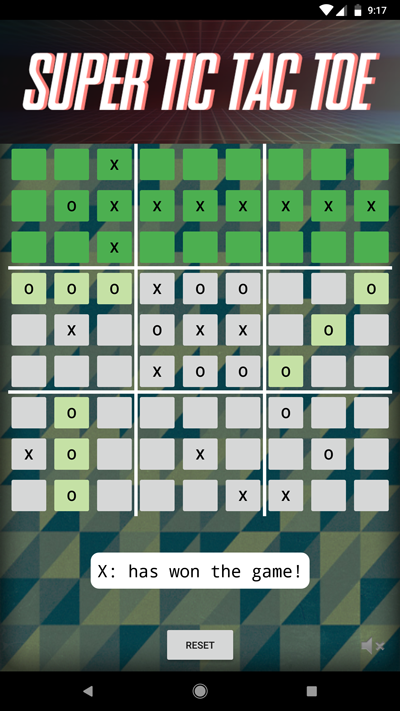
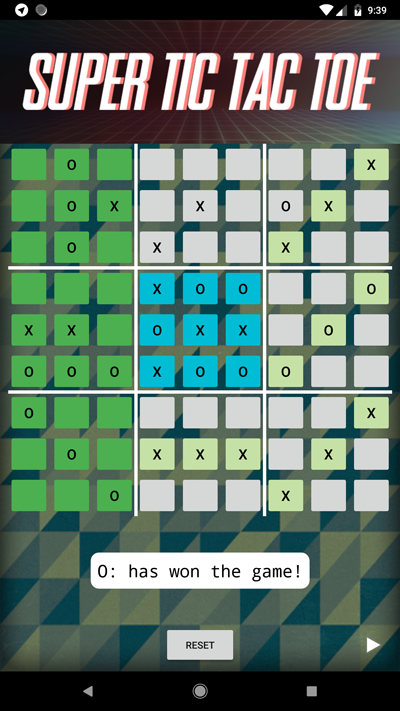
Repair end game draw highlighting bug + new screenshot

diff --git a/app/src/main/java/com/adriantache/supertictactoe/MainActivity.java b/app/src/main/java/com/adriantache/supertictactoe/MainActivity.java
@@ -2043,7 +2043,7 @@ public class MainActivity extends AppCompatActivity {
     //methods to check draw condition in each game
     private void drawCondition1() {
         // if the main Game has a score for this square, exit out
-        if (mainGame[1][1] != 0) return;
+        if (mainGame[1][1] != 0 && !gameEnd) return;
 
         // if the current game has empty squares, exit out
         int i = 1;
@@ -2078,7 +2078,7 @@ public class MainActivity extends AppCompatActivity {
 
     private void drawCondition2() {
         // if the main Game has a score for this square, exit out
-        if (mainGame[1][2] != 0) return;
+        if (mainGame[1][2] != 0 && !gameEnd) return;
 
         // if the current game has empty squares, exit out
         int i = 1;
@@ -2113,7 +2113,7 @@ public class MainActivity extends AppCompatActivity {
 
     private void drawCondition3() {
         // if the main Game has a score for this square, exit out
-        if (mainGame[1][3] != 0) return;
+        if (mainGame[1][3] != 0 && !gameEnd) return;
 
         // if the current game has empty squares, exit out
         int i = 1;
@@ -2148,7 +2148,7 @@ public class MainActivity extends AppCompatActivity {
 
     private void drawCondition4() {
         // if the main Game has a score for this square, exit out
-        if (mainGame[2][1] != 0) return;
+        if (mainGame[2][1] != 0 && !gameEnd) return;
 
         // if the current game has empty squares, exit out
         int i = 1;
@@ -2183,7 +2183,7 @@ public class MainActivity extends AppCompatActivity {
 
     private void drawCondition5() {
         // if the main Game has a score for this square, exit out
-        if (mainGame[2][2] != 0) return;
+        if (mainGame[2][2] != 0 && !gameEnd) return;
 
         // if the current game has empty squares, exit out
         int i = 1;
@@ -2218,7 +2218,7 @@ public class MainActivity extends AppCompatActivity {
 
     private void drawCondition6() {
         // if the main Game has a score for this square, exit out
-        if (mainGame[2][3] != 0) return;
+        if (mainGame[2][3] != 0 && !gameEnd) return;
 
         // if the current game has empty squares, exit out
         int i = 1;
@@ -2253,7 +2253,7 @@ public class MainActivity extends AppCompatActivity {
 
     private void drawCondition7() {
         // if the main Game has a score for this square, exit out
-        if (mainGame[3][1] != 0) return;
+        if (mainGame[3][1] != 0 && !gameEnd) return;
 
         // if the current game has empty squares, exit out
         int i = 1;
@@ -2288,7 +2288,7 @@ public class MainActivity extends AppCompatActivity {
 
     private void drawCondition8() {
         // if the main Game has a score for this square, exit out
-        if (mainGame[3][2] != 0) return;
+        if (mainGame[3][2] != 0 && !gameEnd) return;
 
         // if the current game has empty squares, exit out
         int i = 1;
@@ -2323,7 +2323,7 @@ public class MainActivity extends AppCompatActivity {
 
     private void drawCondition9() {
         // if the main Game has a score for this square, exit out
-        if (mainGame[3][3] != 0) return;
+        if (mainGame[3][3] != 0 && !gameEnd) return;
 
         // if the current game has empty squares, exit out
         int i = 1;
@@ -2366,6 +2366,9 @@ public class MainActivity extends AppCompatActivity {
             //generate winning text
             gameEnd = true;
             setText();
+
+            //recolour all draw boards
+            allDrawConditions();
 
             // highlight winning board
             if (allEqual(mainGame[1][1], mainGame[1][2], mainGame[1][3])) {
@@ -2710,6 +2713,19 @@ public class MainActivity extends AppCompatActivity {
         setText();
         //set special value to set text appropriately for a draw
         currentPlayer = 3;
+    }
+
+    //method to recolour all draw conditions on game win
+    private void allDrawConditions(){
+        drawCondition1();
+        drawCondition2();
+        drawCondition3();
+        drawCondition4();
+        drawCondition5();
+        drawCondition6();
+        drawCondition7();
+        drawCondition8();
+        drawCondition9();
     }
 
     //method to disable all boards
